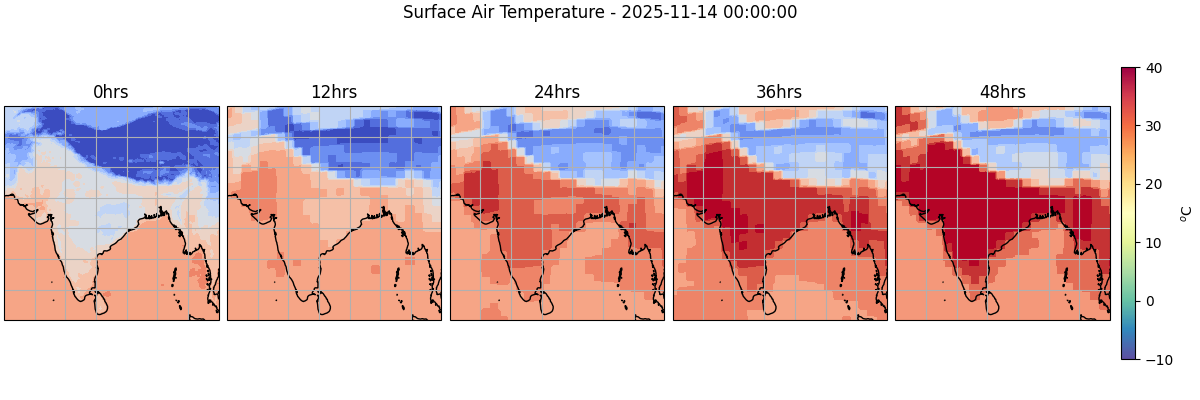
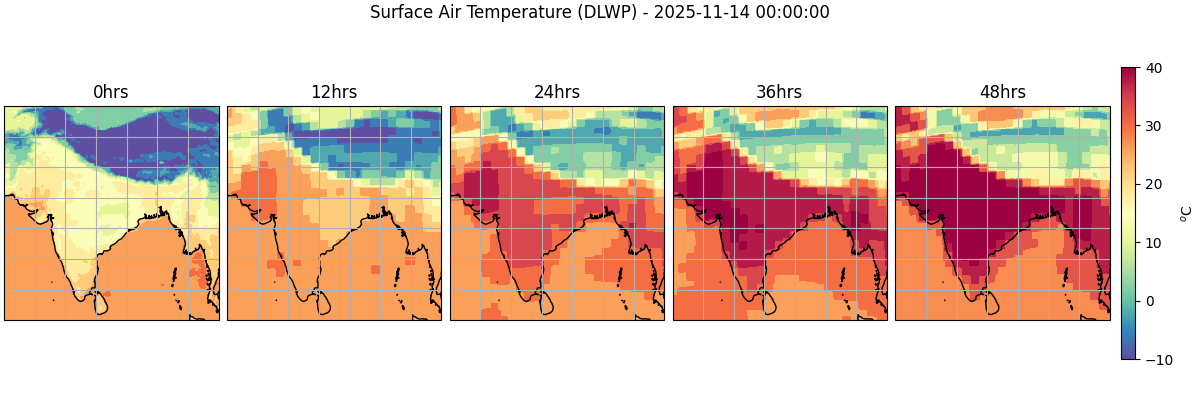
NO based precipitation for daily runs

diff --git a/scripts/daily_inference.py b/scripts/daily_inference.py
@@ -8,6 +8,8 @@ from earth2studio.data import GFS
 from earth2studio.data import ARCO
 from earth2studio.models.px import DLWP
 from earth2studio.io import ZarrBackend
+from earth2studio.models.dx import PrecipitationAFNO
+from earth2studio.models.px import FCN
 import earth2studio.run as run
 import cartopy.crs as ccrs
 import matplotlib.pyplot as plt
@@ -83,14 +85,14 @@ def main():
         vmax=40,
         transform=ccrs.PlateCarree(),
         levels=20,
-        cmap="coolwarm",
+        cmap="Spectral_r",
       )
       ax[i].set_title(f"{times[t]}hrs")
       ax[i].coastlines()
       ax[i].gridlines()
       ax[i].set_extent([65, 100, 5, 40], crs=ccrs.PlateCarree())
 
-    plt.suptitle(f"Surface Air Temperature - {gfs_time}")
+    plt.suptitle(f"Surface Air Temperature (DLWP) - {gfs_time}")
 
     cbar = plt.cm.ScalarMappable(cmap="Spectral_r")
     cbar.set_array(io[variable][0, 0] - 273.15)
@@ -102,7 +104,16 @@ def main():
     os.makedirs(output_dir, exist_ok=True)
     plt.savefig(os.path.join(output_dir, "t2m_forecast.png"))
     
-    variable = "tcwv"
+    package = FCN.load_default_package()
+    model = FCN.load_model(package)
+
+    package = PrecipitationAFNO.load_default_package()
+    diagnostic_model = PrecipitationAFNO.load_model(package)
+    
+    io = ZarrBackend()
+    io = run.diagnostic([gfs_time], nsteps, model, diagnostic_model, gfs, io)
+
+    variable = "tp"
     fig2, ax2 = plt.subplots(
     1,
     5,
@@ -121,9 +132,9 @@ def main():
       ctr = ax2[i].contourf(
         io["lon"][:],
         io["lat"][:],
-        io[variable][0, t],
-        vmin=vmin,
-        vmax=vmax,
+        io[variable][0, t]*1e3,
+        vmin=0.00,
+        vmax=100,
         transform=ccrs.PlateCarree(),
         levels=20,
         cmap="Spectral_r",
@@ -133,12 +144,12 @@ def main():
       ax2[i].gridlines()
       ax2[i].set_extent([65, 100, 5, 40], crs=ccrs.PlateCarree())
 
-    plt.suptitle(f"Total Column Water Vapor - {gfs_time}")
+    plt.suptitle(f"6 hr Precipitation (ForeCastNet) - {gfs_time}")
 
     cbar = plt.cm.ScalarMappable(cmap="Spectral_r")
     cbar.set_array(io[variable][0, 0])
     #cbar.set_clim(-10.0, 30)
-    cbar = fig2.colorbar(cbar, ax=ax2[-1], orientation="vertical",  shrink=0.8)
+    cbar = fig2.colorbar(cbar, ax=ax2[-1], orientation="vertical",  label="mm", shrink=0.8)
     repo_root = os.path.abspath(os.path.join(os.path.dirname(__file__), ".."))
     output_dir = os.path.join(repo_root, "docs", "outputs")
     os.makedirs(output_dir, exist_ok=True)
